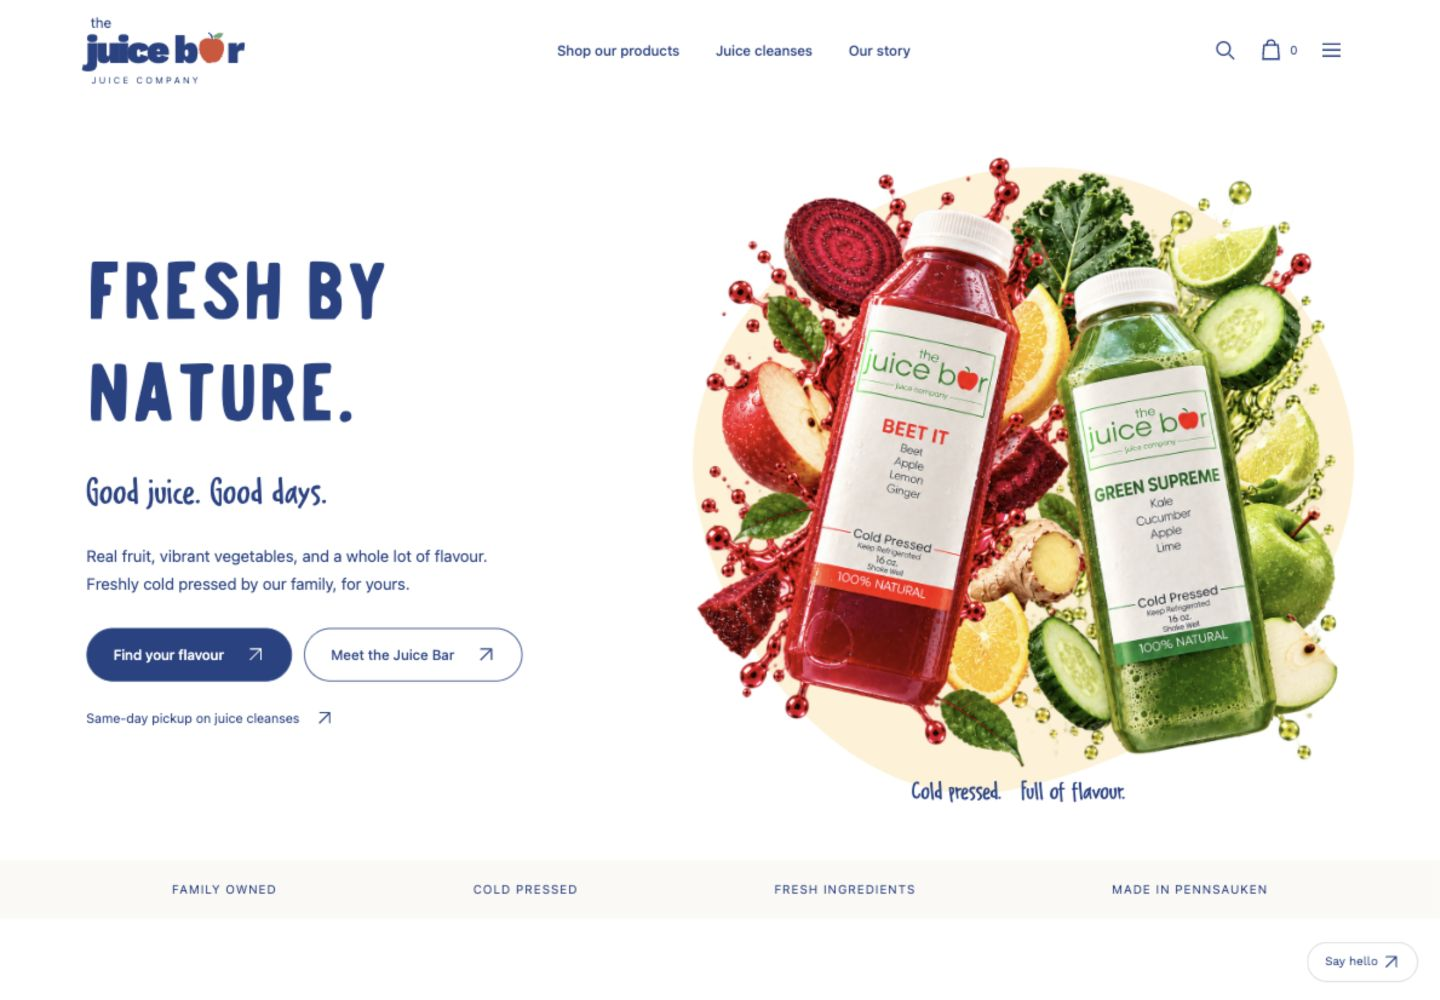
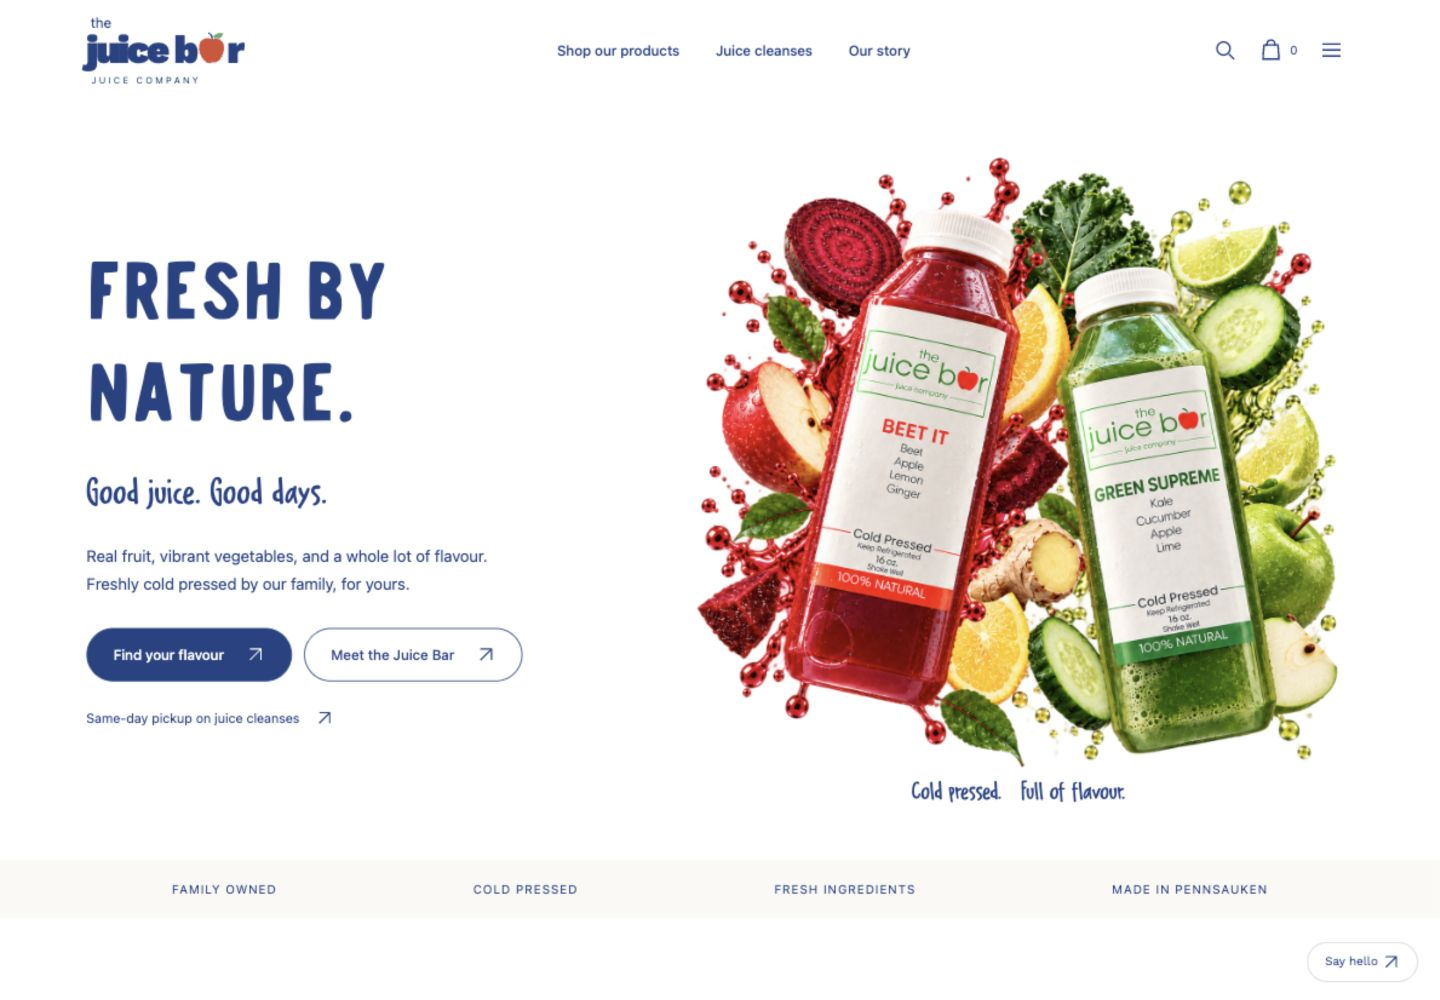
Update Site source

diff --git a/dist/campaign.css b/dist/campaign.css
@@ -11,3 +11,5 @@
 .fresh-hero{background:#fff}.fresh-art .sun-shape{background:#fff2d5}.fresh-bottles{width:650px;max-width:112%;margin-top:0;transform:none}.fresh-art .fresh-leaf{display:none}.fresh-art .art-caption{bottom:-12px}
 @media(max-width:700px){.fresh-art{height:360px;min-height:360px}.fresh-bottles{width:390px;max-width:108%}.fresh-art .sun-shape{inset:20px 0}.fresh-art .art-caption{bottom:-10px}}
 @media(max-width:700px){.fresh-art{height:auto;min-height:0;padding-bottom:36px}.fresh-bottles{width:390px;max-width:100%}.fresh-art .art-caption{bottom:0}.fresh-art .sun-shape{inset:12px 0 38px}}
+/* Final user direction: no coloured backdrop behind the hero artwork. */
+.fresh-art .sun-shape{display:none;background:transparent}

diff --git a/research/campaign-integration.md b/research/campaign-integration.md
@@ -1,15 +1,15 @@
 # Homepage campaign integration
 
-Reference lock: user-approved Beet It campaign for sharp product photography, fruit arrangement, condensation and dynamic bottle angles. Latest user correction keeps the existing white hero, navy typography, headline and buttons; pale yellow is limited to the image background. Exactly Beet It and Green Supreme are featured in the hero.
+Reference lock: user-approved Beet It campaign for sharp product photography, fruit arrangement, condensation and dynamic bottle angles. Latest user correction keeps the existing white hero, navy typography, headline and buttons; final user correction removes the yellow image background entirely. Exactly Beet It and Green Supreme are featured in the hero.
 
 Decision ledger:
 - White canvas and existing content: explicit user correction and established homepage.
-- Yellow organic shape behind images only: explicit user correction, original sun-shape component.
+- Transparent product composition on the white hero: final user correction.
 - Two bottles and their real ingredients: user selection and local catalog.
 - Five clickable campaign posters: original request to feature campaign images on main website; each leads to its product.
 - Responsive two-column poster grid on phones and five columns on desktop: preserve full artwork and readable captions.
 
-QA: desktop 1440px and mobile 390px rendered and checked, no horizontal overflow; white hero rgb(255,255,255), image backdrop rgb(255,242,213). Existing route check passed: 39 pages, 21 products, six collections, zero broken local references.
+QA: desktop 1440px and mobile 390px rendered and checked, no horizontal overflow; white hero rgb(255,255,255), yellow shape removed with display:none. Existing route check passed: 39 pages, 21 products, six collections, zero broken local references.
 
 Hero asset created with built-in ImageGen, using approved flyer and real source bottles; final transparent edit prompt:
 
